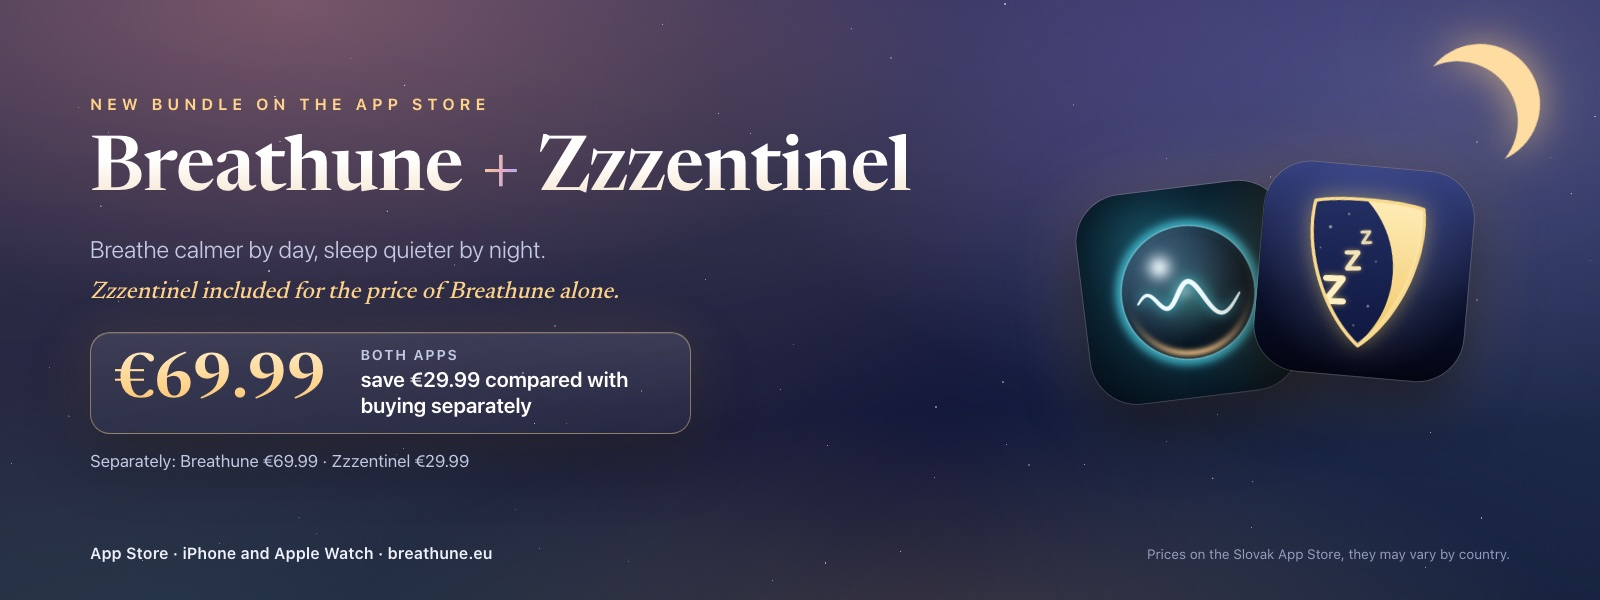
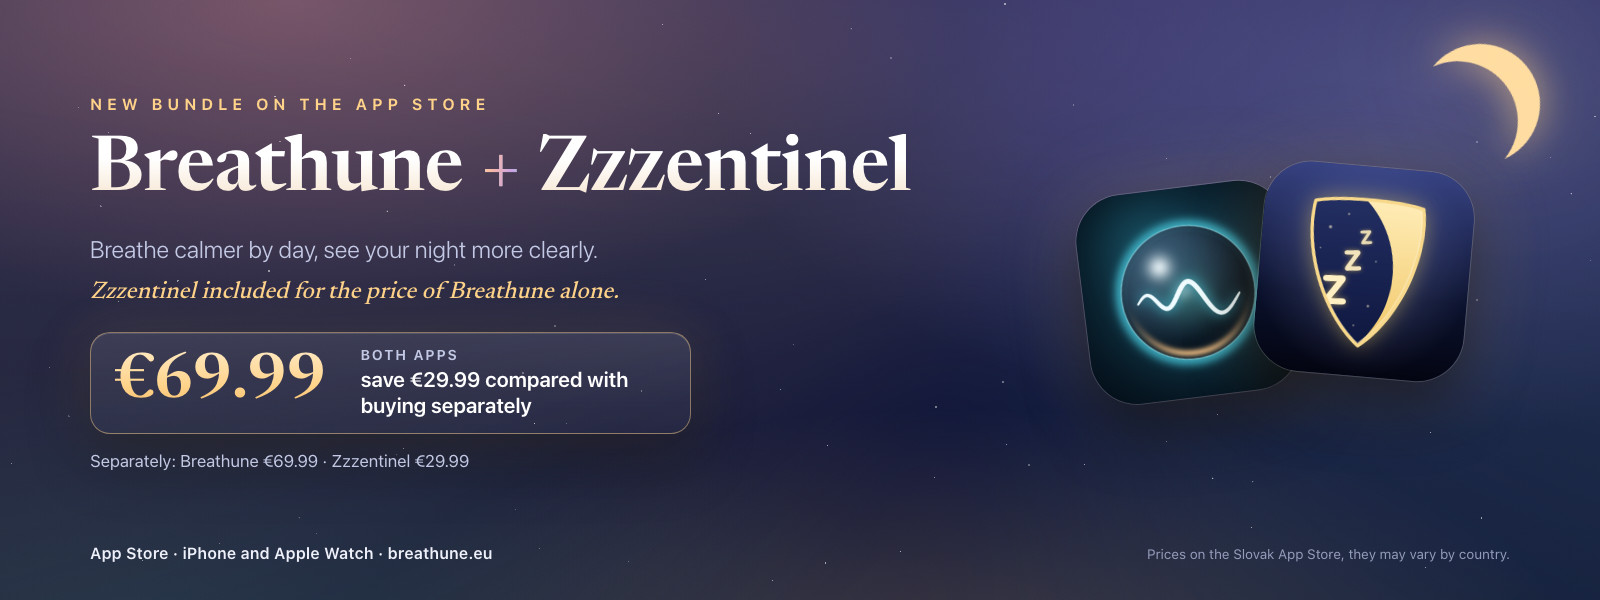
Zosuladenie so Zzzentinel 3.2 a nove bannery

diff --git a/en/index.html b/en/index.html
@@ -647,12 +647,12 @@
           <h3>Zzzentinel</h3>
           <span class="zzz-price"><span data-bf="off"><span class="sk">29,99 €</span><span class="en">€29.99</span></span><span data-bf="on" hidden><span class="sk">24,99 €</span><span class="en">€24.99</span></span></span>
         </div>
-        <p class="sk">Nočný strážca, ktorý rozpozná a zapíše, čo sa počas spánku ozve: chrápanie, reč zo sna, kašeľ. Keď nejaký zvuk nepozná, poctivo to povie. Ráno namiesto hádania vidíš prehľadnú časovú os. Voliteľný režim Guard Extra Plus navyše ustráži telefón pred zvedavými rukami. Bežné zvuky aj tie, ktoré si sám nahráš, spracúva priamo v telefóne a nič neposiela na server.</p>
-        <p class="en">A night watchman that recognizes and logs the sounds of your sleep: snoring, sleep talking, coughing. When it hears something it can't identify, it says so. In the morning you get a clear timeline instead of guesswork. An optional Guard Extra Plus mode also keeps curious hands off your phone. Sounds are processed on the phone and nothing is uploaded to a server.</p>
-        <p class="muted sk">Samostatná platená appka od rovnakého autora. Keď máš obe, noci zo Zzzentinelu uvidíš aj v štatistikách Breathune. Appky si v telefóne vymieňajú len krátke súhrny nocí, nikdy nie zvuk. iPhone a Apple Watch.</p>
-        <p class="muted en">A separate paid app from the same author. If you have both, nights recorded in Zzzentinel also show up in Breathune's statistics. The two apps share only short night summaries on your phone, never audio. iPhone and Apple Watch.</p>
+        <p class="sk">Súkromný záznamník chrápania a nočných zvukov pre iPhone. Priamo v telefóne rozpozná a zapíše zvuky, ktoré zaradí ako chrápanie, reč zo sna alebo kašeľ. Keď nejaký zvuk nepozná, poctivo to povie. Ráno namiesto hádania vidíš prehľadnú časovú os. Voliteľný režim Guard Extra Plus odrádza zvedavé ruky, nie je to však ochrana pred krádežou. Nahrávky a analýzy vznikajú a zostávajú v iPhone a vývojár nedostáva nič. Nie je to zdravotnícka pomôcka.</p>
+        <p class="en">A private snore and sleep sound recorder for iPhone. Right on the phone it recognizes and logs sounds it classifies as snoring, sleep talking or coughing. When it hears something it can't identify, it says so. In the morning you get a clear timeline instead of guesswork. An optional Guard Extra Plus mode also deters curious hands, though it is not theft protection. Recordings and analyses are made and kept on the iPhone, and the developer receives nothing. Not a medical device.</p>
+        <p class="muted sk">Samostatná platená appka od rovnakého autora, jednorazový nákup bez predplatného. Keď máš v iPhone obe, noci zo Zzzentinelu uvidíš aj v štatistikách Breathune. Appky si v telefóne vymieňajú len krátke súhrny nocí, nikdy nie zvuk ani reč. iPhone a Apple Watch (hodinky ovládajú strážcu telefónu).</p>
+        <p class="muted en">A separate paid app from the same author, a one-time purchase with no subscription. If you have both on your iPhone, nights recorded in Zzzentinel also show up in Breathune's statistics. The two apps share only short night summaries on your phone, never audio or speech. iPhone and Apple Watch (the watch controls the phone's guard).</p>
         <p class="center" style="margin-top:14px">
-          <a class="btn" href="https://dzanino.github.io/Zzzentinel/" target="_blank" rel="noopener"><span class="sk">Pozrieť Zzzentinel</span><span class="en">See Zzzentinel</span> ↗</a>
+          <a class="btn" href="https://dzanino.github.io/Zzzentinel/?lang=en" target="_blank" rel="noopener"><span class="sk">Pozrieť Zzzentinel</span><span class="en">See Zzzentinel</span> ↗</a>
         </p>
       </div>
     </section>
@@ -680,8 +680,8 @@
     <section id="bundle">
       <h2 class="sk">Breathune + Zzzentinel v jednom bundli</h2>
       <h2 class="en">Breathune + Zzzentinel in one bundle</h2>
-      <p class="lede sk">Pokojnejšie dýchanie cez deň, tichšia noc. Obe moje appky v jednom balíku v App Store.</p>
-      <p class="lede en">Breathe calmer by day, sleep quieter by night. Both of my apps in one App Store bundle.</p>
+      <p class="lede sk">Pokojnejšie dýchanie cez deň, jasnejší obraz o noci. Obe moje appky v jednom balíku v App Store.</p>
+      <p class="lede en">Breathe calmer by day, see your night more clearly. Both of my apps in one App Store bundle.</p>
 
       <a class="bundle-banner" href="https://apps.apple.com/app-bundle/id6824159791" target="_blank" rel="noopener">
         <picture class="sk" data-bf="off"><source media="(max-width:700px)" srcset="/assets/bundle/bz_bezne_stvorec_sk.jpg"><img src="/assets/bundle/bz_bezne_web_sk.jpg" width="1600" height="600" loading="lazy" alt="Ikony appiek Breathune a Zzzentinel, bundle v App Store za 69,99 €, ušetríš 29,99 € oproti samostatnému nákupu"></picture>
@@ -709,12 +709,12 @@
         <ul class="bundle-list sk">
           <li><b>Breathune:</b> riadené dýchanie podľa Šikutovej metódy, 4-7-8, box, koherentné 5-5 a vlastné programy. Tréning Snore No More môže pomôcť zmierniť chrápanie. Vedenie dychu aj na Apple Watch.</li>
           <li><b>Zzzentinel:</b> počas noci počúva a triedi chrápanie, rozprávanie zo sna a kašeľ. Ráno report s nočnou mapou a epizódami na prehratie. Voliteľne siréna Guard Extra Plus.</li>
-          <li><b>Spolu:</b> noci zo Zzzentinelu uvidíš v štatistikách Breathune. Bez účtu, bez reklám, nič neopúšťa telefón.</li>
+          <li><b>Spolu:</b> noci zo Zzzentinelu uvidíš v štatistikách Breathune. Bez účtu, bez reklám, v telefóne si appky vymieňajú len krátke súhrny, nikdy nie zvuk ani reč.</li>
         </ul>
         <ul class="bundle-list en">
           <li><b>Breathune:</b> guided breathing with the Šikuta method, 4-7-8, box, coherent 5-5 and your own programs. The Snore No More training can help reduce snoring. Breathing guidance on Apple Watch too.</li>
           <li><b>Zzzentinel:</b> listens through the night and sorts snoring, sleep talking and coughing. A morning report with a night map and episodes to play back. Optional Guard Extra Plus siren.</li>
-          <li><b>Together:</b> nights recorded by Zzzentinel appear in the Breathune statistics. No account, no ads, nothing leaves your phone.</li>
+          <li><b>Together:</b> nights recorded by Zzzentinel appear in the Breathune statistics. No account, no ads; on the phone the two apps share only short summaries, never audio or speech.</li>
         </ul>
         <p class="center" style="margin-top:18px"><a class="btn" href="https://apps.apple.com/app-bundle/id6824159791" target="_blank" rel="noopener"><span class="sk">Bundle v App Store</span><span class="en">Bundle on the App Store</span> ↗</a></p>
         <p class="muted sk">Bundle je len v App Store (iPhone a Apple Watch). Ak už jednu z appiek máš, App Store ti pri bundli započíta, čo si už zaplatil(a). Ceny v App Store pre Slovensko, v iných krajinách sa môžu líšiť. Obe appky slúžia na relaxáciu a wellness a nie sú zdravotníckou pomôckou.</p>

diff --git a/index.html b/index.html
@@ -647,10 +647,10 @@
           <h3>Zzzentinel</h3>
           <span class="zzz-price"><span data-bf="off"><span class="sk">29,99 €</span><span class="en">€29.99</span></span><span data-bf="on" hidden><span class="sk">24,99 €</span><span class="en">€24.99</span></span></span>
         </div>
-        <p class="sk">Nočný strážca, ktorý rozpozná a zapíše, čo sa počas spánku ozve: chrápanie, reč zo sna, kašeľ. Keď nejaký zvuk nepozná, poctivo to povie. Ráno namiesto hádania vidíš prehľadnú časovú os. Voliteľný režim Guard Extra Plus navyše ustráži telefón pred zvedavými rukami. Bežné zvuky aj tie, ktoré si sám nahráš, spracúva priamo v telefóne a nič neposiela na server.</p>
-        <p class="en">A night watchman that recognizes and logs the sounds of your sleep: snoring, sleep talking, coughing. When it hears something it can't identify, it says so. In the morning you get a clear timeline instead of guesswork. An optional Guard Extra Plus mode also keeps curious hands off your phone. Sounds are processed on the phone and nothing is uploaded to a server.</p>
-        <p class="muted sk">Samostatná platená appka od rovnakého autora. Keď máš obe, noci zo Zzzentinelu uvidíš aj v štatistikách Breathune. Appky si v telefóne vymieňajú len krátke súhrny nocí, nikdy nie zvuk. iPhone a Apple Watch.</p>
-        <p class="muted en">A separate paid app from the same author. If you have both, nights recorded in Zzzentinel also show up in Breathune's statistics. The two apps share only short night summaries on your phone, never audio. iPhone and Apple Watch.</p>
+        <p class="sk">Súkromný záznamník chrápania a nočných zvukov pre iPhone. Priamo v telefóne rozpozná a zapíše zvuky, ktoré zaradí ako chrápanie, reč zo sna alebo kašeľ. Keď nejaký zvuk nepozná, poctivo to povie. Ráno namiesto hádania vidíš prehľadnú časovú os. Voliteľný režim Guard Extra Plus odrádza zvedavé ruky, nie je to však ochrana pred krádežou. Nahrávky a analýzy vznikajú a zostávajú v iPhone a vývojár nedostáva nič. Nie je to zdravotnícka pomôcka.</p>
+        <p class="en">A private snore and sleep sound recorder for iPhone. Right on the phone it recognizes and logs sounds it classifies as snoring, sleep talking or coughing. When it hears something it can't identify, it says so. In the morning you get a clear timeline instead of guesswork. An optional Guard Extra Plus mode also deters curious hands, though it is not theft protection. Recordings and analyses are made and kept on the iPhone, and the developer receives nothing. Not a medical device.</p>
+        <p class="muted sk">Samostatná platená appka od rovnakého autora, jednorazový nákup bez predplatného. Keď máš v iPhone obe, noci zo Zzzentinelu uvidíš aj v štatistikách Breathune. Appky si v telefóne vymieňajú len krátke súhrny nocí, nikdy nie zvuk ani reč. iPhone a Apple Watch (hodinky ovládajú strážcu telefónu).</p>
+        <p class="muted en">A separate paid app from the same author, a one-time purchase with no subscription. If you have both on your iPhone, nights recorded in Zzzentinel also show up in Breathune's statistics. The two apps share only short night summaries on your phone, never audio or speech. iPhone and Apple Watch (the watch controls the phone's guard).</p>
         <p class="center" style="margin-top:14px">
           <a class="btn" href="https://dzanino.github.io/Zzzentinel/" target="_blank" rel="noopener"><span class="sk">Pozrieť Zzzentinel</span><span class="en">See Zzzentinel</span> ↗</a>
         </p>
@@ -680,8 +680,8 @@
     <section id="bundle">
       <h2 class="sk">Breathune + Zzzentinel v jednom bundli</h2>
       <h2 class="en">Breathune + Zzzentinel in one bundle</h2>
-      <p class="lede sk">Pokojnejšie dýchanie cez deň, tichšia noc. Obe moje appky v jednom balíku v App Store.</p>
-      <p class="lede en">Breathe calmer by day, sleep quieter by night. Both of my apps in one App Store bundle.</p>
+      <p class="lede sk">Pokojnejšie dýchanie cez deň, jasnejší obraz o noci. Obe moje appky v jednom balíku v App Store.</p>
+      <p class="lede en">Breathe calmer by day, see your night more clearly. Both of my apps in one App Store bundle.</p>
 
       <a class="bundle-banner" href="https://apps.apple.com/app-bundle/id6824159791" target="_blank" rel="noopener">
         <picture class="sk" data-bf="off"><source media="(max-width:700px)" srcset="/assets/bundle/bz_bezne_stvorec_sk.jpg"><img src="/assets/bundle/bz_bezne_web_sk.jpg" width="1600" height="600" loading="lazy" alt="Ikony appiek Breathune a Zzzentinel, bundle v App Store za 69,99 €, ušetríš 29,99 € oproti samostatnému nákupu"></picture>
@@ -709,12 +709,12 @@
         <ul class="bundle-list sk">
           <li><b>Breathune:</b> riadené dýchanie podľa Šikutovej metódy, 4-7-8, box, koherentné 5-5 a vlastné programy. Tréning Snore No More môže pomôcť zmierniť chrápanie. Vedenie dychu aj na Apple Watch.</li>
           <li><b>Zzzentinel:</b> počas noci počúva a triedi chrápanie, rozprávanie zo sna a kašeľ. Ráno report s nočnou mapou a epizódami na prehratie. Voliteľne siréna Guard Extra Plus.</li>
-          <li><b>Spolu:</b> noci zo Zzzentinelu uvidíš v štatistikách Breathune. Bez účtu, bez reklám, nič neopúšťa telefón.</li>
+          <li><b>Spolu:</b> noci zo Zzzentinelu uvidíš v štatistikách Breathune. Bez účtu, bez reklám, v telefóne si appky vymieňajú len krátke súhrny, nikdy nie zvuk ani reč.</li>
         </ul>
         <ul class="bundle-list en">
           <li><b>Breathune:</b> guided breathing with the Šikuta method, 4-7-8, box, coherent 5-5 and your own programs. The Snore No More training can help reduce snoring. Breathing guidance on Apple Watch too.</li>
           <li><b>Zzzentinel:</b> listens through the night and sorts snoring, sleep talking and coughing. A morning report with a night map and episodes to play back. Optional Guard Extra Plus siren.</li>
-          <li><b>Together:</b> nights recorded by Zzzentinel appear in the Breathune statistics. No account, no ads, nothing leaves your phone.</li>
+          <li><b>Together:</b> nights recorded by Zzzentinel appear in the Breathune statistics. No account, no ads; on the phone the two apps share only short summaries, never audio or speech.</li>
         </ul>
         <p class="center" style="margin-top:18px"><a class="btn" href="https://apps.apple.com/app-bundle/id6824159791" target="_blank" rel="noopener"><span class="sk">Bundle v App Store</span><span class="en">Bundle on the App Store</span> ↗</a></p>
         <p class="muted sk">Bundle je len v App Store (iPhone a Apple Watch). Ak už jednu z appiek máš, App Store ti pri bundli započíta, čo si už zaplatil(a). Ceny v App Store pre Slovensko, v iných krajinách sa môžu líšiť. Obe appky slúžia na relaxáciu a wellness a nie sú zdravotníckou pomôckou.</p>

diff --git a/privacy-policy/index.html b/privacy-policy/index.html
@@ -243,8 +243,8 @@
 
   <div class="card" id="zzzentinel">
     <h3><span class="sk"><span class="plat ios">iOS</span> Prepojenie so Zzzentinelom</span><span class="en"><span class="plat ios">iOS</span> Link with Zzzentinel</span></h3>
-    <p class="sk">Breathune a Zzzentinel sú aplikácie od rovnakého autora. Keď máš na iPhone obe, vymieňajú si krátke súhrny cez spoločný priečinok v telefóne (App Group), ku ktorému majú prístup <strong>len tieto dve aplikácie</strong>. Breathune tam zapisuje časy, dĺžky a hlasitosť epizód chrápania, skóre noci, priemerný tep (ak ho meriaš) a zoznam dokončených cvičení. Zzzentinel tam zapisuje časy a hlasitosť chrápania a počty ďalších zvukov (napr. reč zo sna, kašeľ). <strong>Žiadny zvuk, žiadne nahrávky ani prepisy</strong> sa nezdieľajú a nič z toho neopustí telefón. Preberanie nocí zo Zzzentinelu vypneš v nastaveniach noci, zmazaním oboch aplikácií zmizne aj spoločný priečinok.</p>
-    <p class="en">Breathune and Zzzentinel are apps by the same author. When you have both on your iPhone, they exchange short summaries through a shared folder on the phone (an App Group) that <strong>only these two apps</strong> can access. Breathune writes snoring episode times, durations and loudness, the night score, the average heart rate (if you measure it) and the list of completed sessions. Zzzentinel writes snoring times and loudness plus counts of other sounds (e.g. sleep talking, coughing). <strong>No audio, recordings or transcripts</strong> are shared, and none of it leaves the phone. You can turn off using nights from Zzzentinel in the night settings; deleting both apps removes the shared folder too.</p>
+    <p class="sk">Breathune a Zzzentinel sú aplikácie od rovnakého autora. Keď máš na iPhone obe, vymieňajú si krátke súhrny cez spoločný priečinok v telefóne (App Group), ku ktorému majú prístup <strong>len tieto dve aplikácie</strong>. Breathune tam zapisuje časy, dĺžky a hlasitosť epizód chrápania, skóre noci, priemerný tep (ak ho meriaš) a zoznam dokončených cvičení. Zzzentinel tam zapisuje začiatok a koniec noci, časy a úrovne chrápania, počty ďalších zvukov (napr. reč zo sna, kašeľ), odhad dychovej frekvencie z mikrofónu a to, akú časť noci bolo dych počuť; hodnoty z Apple Zdravia tam nedáva. Z priečinka číta tvoje večerné cvičenia, skóre noci a tep. <strong>Žiadny zvuk, žiadne nahrávky ani prepisy</strong> sa nezdieľajú a nič z toho neopustí telefón. Preberanie nocí zo Zzzentinelu vypneš v nastaveniach noci. Spoločný priečinok ostane v telefóne, kým je nainštalovaná aspoň jedna z aplikácií; zmazaním oboch zmizne.</p>
+    <p class="en">Breathune and Zzzentinel are apps by the same author. When you have both on your iPhone, they exchange short summaries through a shared folder on the phone (an App Group) that <strong>only these two apps</strong> can access. Breathune writes snoring episode times, durations and loudness, the night score, the average heart rate (if you measure it) and the list of completed sessions. Zzzentinel writes the night's start and end, snoring times and levels, counts of other sounds (e.g. sleep talking, coughing), its microphone-based breathing-rate estimate and how much of the night breathing was audible; it does not pass on Apple Health values. From the folder it reads your evening breathing sessions, the night score and heart rate. <strong>No audio, recordings or transcripts</strong> are shared, and none of it leaves the phone. You can turn off using nights from Zzzentinel in the night settings. The shared folder stays on the phone as long as at least one of the two apps is installed; deleting both removes it.</p>
   </div>
 
   <div class="card">
@@ -284,8 +284,8 @@
 
 <footer>
   <div class="wrap">
-    <p class="sk">Platné od <strong>5. novembra 2026</strong>. <span data-fz>Breathune</span> · Ján Šikuta · <a href="https://orcid.org/0000-0002-4690-0317" rel="me noopener" target="_blank">ORCID</a> · <a href="../">Úvod</a> · <a href="../support/">Podpora</a></p>
-    <p class="en">Effective <strong>5 November 2026</strong>. <span data-fz>Breathune</span> · Ján Šikuta · <a href="https://orcid.org/0000-0002-4690-0317" rel="me noopener" target="_blank">ORCID</a> · <a href="../">Home</a> · <a href="../support/">Support</a></p>
+    <p class="sk">Platné od <strong>6. novembra 2026</strong>. <span data-fz>Breathune</span> · Ján Šikuta · <a href="https://orcid.org/0000-0002-4690-0317" rel="me noopener" target="_blank">ORCID</a> · <a href="../">Úvod</a> · <a href="../support/">Podpora</a></p>
+    <p class="en">Effective <strong>6 November 2026</strong>. <span data-fz>Breathune</span> · Ján Šikuta · <a href="https://orcid.org/0000-0002-4690-0317" rel="me noopener" target="_blank">ORCID</a> · <a href="../">Home</a> · <a href="../support/">Support</a></p>
   </div>
 </footer>
 

diff --git a/fr/privacy-policy/index.html b/fr/privacy-policy/index.html
@@ -204,7 +204,7 @@
 
   <div class="card" id="zzzentinel">
     <h3><span class="plat ios">iOS</span> Lien avec Zzzentinel</h3>
-    <p>Breathune et Zzzentinel sont des apps du même auteur. Quand les deux sont installées sur ton iPhone, elles échangent de courts résumés via un dossier partagé sur le téléphone (un App Group) auquel <strong>seules ces deux apps</strong> ont accès. Breathune y écrit les heures, durées et volumes des épisodes de ronflement, le score de la nuit, la fréquence cardiaque moyenne (si tu la mesures) et la liste des séances terminées. Zzzentinel y écrit les heures et le volume du ronflement ainsi que le nombre d’autres sons (p. ex. paroles dans le sommeil, toux). <strong>Aucun son, aucun enregistrement ni aucune transcription</strong> n’est partagé, et rien de tout cela ne quitte le téléphone. Tu peux désactiver la reprise des nuits de Zzzentinel dans les réglages de la nuit ; supprimer les deux apps supprime aussi le dossier partagé.</p>
+    <p>Breathune et Zzzentinel sont des apps du même auteur. Quand les deux sont installées sur ton iPhone, elles échangent de courts résumés via un dossier partagé sur le téléphone (un App Group) auquel <strong>seules ces deux apps</strong> ont accès. Breathune y écrit les heures, durées et volumes des épisodes de ronflement, le score de la nuit, la fréquence cardiaque moyenne (si tu la mesures) et la liste des séances terminées. Zzzentinel y écrit le début et la fin de la nuit, les heures et les niveaux de ronflement, le nombre d’autres sons (p. ex. paroles dans le sommeil, toux), l’estimation de la fréquence respiratoire par le micro et la part de la nuit où la respiration était audible ; il n’y transmet aucune valeur d’Apple Santé. Il y lit tes séances du soir, le score de la nuit et la fréquence cardiaque. <strong>Aucun son, aucun enregistrement ni aucune transcription</strong> n’est partagé, et rien de tout cela ne quitte le téléphone. Tu peux désactiver la reprise des nuits de Zzzentinel dans les réglages de la nuit. Le dossier partagé reste sur le téléphone tant qu’au moins une des deux apps est installée ; supprimer les deux le supprime.</p>
   </div>
 
   <div class="card">
@@ -234,7 +234,7 @@
 
 <footer>
   <div class="wrap">
-    <p>En vigueur depuis le <strong>5 novembre 2026</strong>. <span data-fz>Breathune</span> · Ján Šikuta · <a href="https://orcid.org/0000-0002-4690-0317" rel="me noopener" target="_blank">ORCID</a> · <a href="/fr/">Accueil</a> · <a href="/fr/support/">Assistance</a></p>
+    <p>En vigueur depuis le <strong>6 novembre 2026</strong>. <span data-fz>Breathune</span> · Ján Šikuta · <a href="https://orcid.org/0000-0002-4690-0317" rel="me noopener" target="_blank">ORCID</a> · <a href="/fr/">Accueil</a> · <a href="/fr/support/">Assistance</a></p>
   </div>
 </footer>
 

diff --git a/de/privacy-policy/index.html b/de/privacy-policy/index.html
@@ -204,7 +204,7 @@
 
   <div class="card" id="zzzentinel">
     <h3><span class="plat ios">iOS</span> Verbindung mit Zzzentinel</h3>
-    <p>Breathune und Zzzentinel sind Apps vom selben Autor. Wenn du beide auf dem iPhone hast, tauschen sie kurze Zusammenfassungen über einen gemeinsamen Ordner auf dem Telefon aus (App Group), auf den <strong>nur diese beiden Apps</strong> zugreifen können. Breathune schreibt dort Zeitpunkte, Dauer und Lautstärke der Schnarchepisoden, den Nacht-Score, den durchschnittlichen Puls (wenn du ihn misst) und die Liste abgeschlossener Übungen. Zzzentinel schreibt dort Zeitpunkte und Lautstärke des Schnarchens sowie die Anzahl anderer Geräusche (z. B. Sprechen im Schlaf, Husten). <strong>Kein Ton, keine Aufnahmen und keine Transkripte</strong> werden geteilt, und nichts davon verlässt das Telefon. Die Übernahme von Nächten aus Zzzentinel schaltest du in den Nachteinstellungen aus; wenn du beide Apps löschst, verschwindet auch der gemeinsame Ordner.</p>
+    <p>Breathune und Zzzentinel sind Apps vom selben Autor. Wenn du beide auf dem iPhone hast, tauschen sie kurze Zusammenfassungen über einen gemeinsamen Ordner auf dem Telefon aus (App Group), auf den <strong>nur diese beiden Apps</strong> zugreifen können. Breathune schreibt dort Zeitpunkte, Dauer und Lautstärke der Schnarchepisoden, den Nacht-Score, den durchschnittlichen Puls (wenn du ihn misst) und die Liste abgeschlossener Übungen. Zzzentinel schreibt dort Beginn und Ende der Nacht, Zeitpunkte und Pegel des Schnarchens, die Anzahl anderer Geräusche (z. B. Sprechen im Schlaf, Husten), die vom Mikrofon geschätzte Atemfrequenz und wie viel der Nacht die Atmung hörbar war; Werte aus Apple Health gibt es nicht weiter. Aus dem Ordner liest es deine abendlichen Übungen, den Nacht-Score und den Puls. <strong>Kein Ton, keine Aufnahmen und keine Transkripte</strong> werden geteilt, und nichts davon verlässt das Telefon. Die Übernahme von Nächten aus Zzzentinel schaltest du in den Nachteinstellungen aus. Der gemeinsame Ordner bleibt auf dem Telefon, solange mindestens eine der Apps installiert ist; wenn du beide löschst, verschwindet er.</p>
   </div>
 
   <div class="card">
@@ -234,7 +234,7 @@
 
 <footer>
   <div class="wrap">
-    <p>Gültig ab <strong>5. November 2026</strong>. <span data-fz>Breathune</span> · Ján Šikuta · <a href="https://orcid.org/0000-0002-4690-0317" rel="me noopener" target="_blank">ORCID</a> · <a href="/de/">Startseite</a> · <a href="/de/support/">Support</a></p>
+    <p>Gültig ab <strong>6. November 2026</strong>. <span data-fz>Breathune</span> · Ján Šikuta · <a href="https://orcid.org/0000-0002-4690-0317" rel="me noopener" target="_blank">ORCID</a> · <a href="/de/">Startseite</a> · <a href="/de/support/">Support</a></p>
   </div>
 </footer>
 

diff --git a/pt/privacy-policy/index.html b/pt/privacy-policy/index.html
@@ -204,7 +204,7 @@
 
   <div class="card" id="zzzentinel">
     <h3><span class="plat ios">iOS</span> Conexão com o Zzzentinel</h3>
-    <p>O Breathune e o Zzzentinel são apps do mesmo autor. Quando você tem os dois no iPhone, eles trocam resumos curtos por meio de uma pasta compartilhada no celular (App Group), à qual <strong>só esses dois apps</strong> têm acesso. O Breathune grava ali os horários, as durações e o volume dos episódios de ronco, a pontuação da noite, a frequência cardíaca média (se você a medir) e a lista de exercícios concluídos. O Zzzentinel grava ali os horários e o volume do ronco e a contagem de outros sons (por exemplo fala durante o sono, tosse). <strong>Nenhum som, gravação ou transcrição</strong> é compartilhado, e nada disso sai do celular. Você pode desativar o uso das noites do Zzzentinel nas configurações da noite; ao apagar os dois apps, a pasta compartilhada também desaparece.</p>
+    <p>O Breathune e o Zzzentinel são apps do mesmo autor. Quando você tem os dois no iPhone, eles trocam resumos curtos por meio de uma pasta compartilhada no celular (App Group), à qual <strong>só esses dois apps</strong> têm acesso. O Breathune grava ali os horários, as durações e o volume dos episódios de ronco, a pontuação da noite, a frequência cardíaca média (se você a medir) e a lista de exercícios concluídos. O Zzzentinel grava ali o início e o fim da noite, os horários e níveis do ronco, a contagem de outros sons (por exemplo fala durante o sono, tosse), a estimativa da frequência respiratória pelo microfone e em quanto da noite a respiração foi audível; ele não repassa valores do Apple Saúde. Da pasta, ele lê as suas sessões da noite, a pontuação da noite e a frequência cardíaca. <strong>Nenhum som, gravação ou transcrição</strong> é compartilhado, e nada disso sai do celular. Você pode desativar o uso das noites do Zzzentinel nas configurações da noite. A pasta compartilhada fica no celular enquanto pelo menos um dos dois apps estiver instalado; ao apagar os dois, ela desaparece.</p>
   </div>
 
   <div class="card">
@@ -234,7 +234,7 @@
 
 <footer>
   <div class="wrap">
-    <p>Em vigor desde <strong>5 de novembro de 2026</strong>. <span data-fz>Breathune</span> · Ján Šikuta · <a href="https://orcid.org/0000-0002-4690-0317" rel="me noopener" target="_blank">ORCID</a> · <a href="/pt/">Início</a> · <a href="/pt/support/">Suporte</a></p>
+    <p>Em vigor desde <strong>6 de novembro de 2026</strong>. <span data-fz>Breathune</span> · Ján Šikuta · <a href="https://orcid.org/0000-0002-4690-0317" rel="me noopener" target="_blank">ORCID</a> · <a href="/pt/">Início</a> · <a href="/pt/support/">Suporte</a></p>
   </div>
 </footer>
 

diff --git a/es/privacy-policy/index.html b/es/privacy-policy/index.html
@@ -204,7 +204,7 @@
 
   <div class="card" id="zzzentinel">
     <h3><span class="plat ios">iOS</span> Conexión con Zzzentinel</h3>
-    <p>Breathune y Zzzentinel son apps del mismo autor. Si tienes las dos en tu iPhone, intercambian breves resúmenes a través de una carpeta compartida en el móvil (un App Group) a la que <strong>solo tienen acceso estas dos apps</strong>. Breathune escribe allí las horas, la duración y el volumen de los episodios de ronquido, la puntuación de la noche, el pulso medio (si lo mides) y la lista de sesiones terminadas. Zzzentinel escribe las horas y el volumen de los ronquidos y el número de otros sonidos (p. ej., hablar en sueños, tos). <strong>No se comparte ningún sonido, grabación ni transcripción</strong>, y nada de ello sale del móvil. Puedes desactivar el uso de las noches de Zzzentinel en los ajustes de la noche; al borrar las dos apps, también desaparece la carpeta compartida.</p>
+    <p>Breathune y Zzzentinel son apps del mismo autor. Si tienes las dos en tu iPhone, intercambian breves resúmenes a través de una carpeta compartida en el móvil (un App Group) a la que <strong>solo tienen acceso estas dos apps</strong>. Breathune escribe allí las horas, la duración y el volumen de los episodios de ronquido, la puntuación de la noche, el pulso medio (si lo mides) y la lista de sesiones terminadas. Zzzentinel escribe allí el inicio y el fin de la noche, las horas y los niveles de los ronquidos, el número de otros sonidos (p. ej., hablar en sueños, tos), la estimación de la frecuencia respiratoria por el micrófono y qué parte de la noche se oyó la respiración; no transmite valores de la app Salud. De la carpeta lee tus sesiones antes de dormir, la puntuación de la noche y el pulso. <strong>No se comparte ningún sonido, grabación ni transcripción</strong>, y nada de ello sale del móvil. Puedes desactivar el uso de las noches de Zzzentinel en los ajustes de la noche. La carpeta compartida sigue en el móvil mientras al menos una de las dos apps esté instalada; al borrar las dos, desaparece.</p>
   </div>
 
   <div class="card">
@@ -234,7 +234,7 @@
 
 <footer>
   <div class="wrap">
-    <p>En vigor desde el <strong>5 de noviembre de 2026</strong>. <span data-fz>Breathune</span> · Ján Šikuta · <a href="https://orcid.org/0000-0002-4690-0317" rel="me noopener" target="_blank">ORCID</a> · <a href="/es/">Inicio</a> · <a href="/es/support/">Ayuda</a></p>
+    <p>En vigor desde el <strong>6 de noviembre de 2026</strong>. <span data-fz>Breathune</span> · Ján Šikuta · <a href="https://orcid.org/0000-0002-4690-0317" rel="me noopener" target="_blank">ORCID</a> · <a href="/es/">Inicio</a> · <a href="/es/support/">Ayuda</a></p>
   </div>
 </footer>
 

diff --git a/it/privacy-policy/index.html b/it/privacy-policy/index.html
@@ -204,7 +204,7 @@
 
   <div class="card" id="zzzentinel">
     <h3><span class="plat ios">iOS</span> Collegamento con Zzzentinel</h3>
-    <p>Breathune e Zzzentinel sono app dello stesso autore. Se le hai entrambe sull’iPhone, si scambiano brevi riepiloghi tramite una cartella condivisa sul telefono (App Group) a cui hanno accesso <strong>solo queste due app</strong>. Breathune vi scrive orari, durata e volume degli episodi di russamento, il punteggio della notte, il battito medio (se lo misuri) e l’elenco degli esercizi completati. Zzzentinel vi scrive orari e volume del russamento e il numero di altri suoni (ad es. parole nel sonno, tosse). <strong>Nessun audio, nessuna registrazione né trascrizione</strong> viene condivisa, e nulla di tutto ciò lascia il telefono. Puoi disattivare l’importazione delle notti da Zzzentinel nelle impostazioni della notte; disinstallando entrambe le app sparisce anche la cartella condivisa.</p>
+    <p>Breathune e Zzzentinel sono app dello stesso autore. Se le hai entrambe sull’iPhone, si scambiano brevi riepiloghi tramite una cartella condivisa sul telefono (App Group) a cui hanno accesso <strong>solo queste due app</strong>. Breathune vi scrive orari, durata e volume degli episodi di russamento, il punteggio della notte, il battito medio (se lo misuri) e l’elenco degli esercizi completati. Zzzentinel vi scrive inizio e fine della notte, orari e livelli del russamento, il numero di altri suoni (ad es. parole nel sonno, tosse), la stima della frequenza respiratoria dal microfono e per quanta parte della notte il respiro era udibile; non vi trasmette valori da Apple Salute. Dalla cartella legge i tuoi esercizi serali, il punteggio della notte e il battito. <strong>Nessun audio, nessuna registrazione né trascrizione</strong> viene condivisa, e nulla di tutto ciò lascia il telefono. Puoi disattivare l’importazione delle notti da Zzzentinel nelle impostazioni della notte. La cartella condivisa resta sul telefono finché almeno una delle due app è installata; disinstallando entrambe sparisce.</p>
   </div>
 
   <div class="card">
@@ -234,7 +234,7 @@
 
 <footer>
   <div class="wrap">
-    <p>In vigore dal <strong>5 novembre 2026</strong>. <span data-fz>Breathune</span> · Ján Šikuta · <a href="https://orcid.org/0000-0002-4690-0317" rel="me noopener" target="_blank">ORCID</a> · <a href="/it/">Home</a> · <a href="/it/support/">Assistenza</a></p>
+    <p>In vigore dal <strong>6 novembre 2026</strong>. <span data-fz>Breathune</span> · Ján Šikuta · <a href="https://orcid.org/0000-0002-4690-0317" rel="me noopener" target="_blank">ORCID</a> · <a href="/it/">Home</a> · <a href="/it/support/">Assistenza</a></p>
   </div>
 </footer>
 

diff --git a/pl/privacy-policy/index.html b/pl/privacy-policy/index.html
@@ -204,7 +204,7 @@
 
   <div class="card" id="zzzentinel">
     <h3><span class="plat ios">iOS</span> Połączenie z Zzzentinelem</h3>
-    <p>Breathune i Zzzentinel to aplikacje tego samego autora. Gdy masz na iPhonie obie, wymieniają się krótkimi podsumowaniami przez wspólny folder w telefonie (App Group), do którego dostęp mają <strong>tylko te dwie aplikacje</strong>. Breathune zapisuje tam czasy, długości i głośność epizodów chrapania, wynik nocy, średnie tętno (jeśli je mierzysz) i listę ukończonych ćwiczeń. Zzzentinel zapisuje tam czasy i głośność chrapania oraz liczbę innych dźwięków (np. mówienie przez sen, kaszel). <strong>Żaden dźwięk, żadne nagrania ani transkrypcje</strong> nie są udostępniane i nic z tego nie opuszcza telefonu. Pobieranie nocy z Zzzentinela wyłączysz w ustawieniach nocy; po usunięciu obu aplikacji znika też wspólny folder.</p>
+    <p>Breathune i Zzzentinel to aplikacje tego samego autora. Gdy masz na iPhonie obie, wymieniają się krótkimi podsumowaniami przez wspólny folder w telefonie (App Group), do którego dostęp mają <strong>tylko te dwie aplikacje</strong>. Breathune zapisuje tam czasy, długości i głośność epizodów chrapania, wynik nocy, średnie tętno (jeśli je mierzysz) i listę ukończonych ćwiczeń. Zzzentinel zapisuje tam początek i koniec nocy, czasy i poziomy chrapania, liczbę innych dźwięków (np. mówienie przez sen, kaszel), szacunek częstości oddechu z mikrofonu oraz to, przez jaką część nocy oddech był słyszalny; nie przekazuje wartości z Apple Zdrowie. Z folderu odczytuje twoje wieczorne ćwiczenia, wynik nocy i tętno. <strong>Żaden dźwięk, żadne nagrania ani transkrypcje</strong> nie są udostępniane i nic z tego nie opuszcza telefonu. Pobieranie nocy z Zzzentinela wyłączysz w ustawieniach nocy. Wspólny folder zostaje na telefonie, dopóki zainstalowana jest co najmniej jedna z aplikacji; po usunięciu obu znika.</p>
   </div>
 
   <div class="card">
@@ -234,7 +234,7 @@
 
 <footer>
   <div class="wrap">
-    <p>Obowiązuje od <strong>5 listopada 2026</strong>. <span data-fz>Breathune</span> · Ján Šikuta · <a href="https://orcid.org/0000-0002-4690-0317" rel="me noopener" target="_blank">ORCID</a> · <a href="/pl/">Strona główna</a> · <a href="/pl/support/">Pomoc</a></p>
+    <p>Obowiązuje od <strong>6 listopada 2026</strong>. <span data-fz>Breathune</span> · Ján Šikuta · <a href="https://orcid.org/0000-0002-4690-0317" rel="me noopener" target="_blank">ORCID</a> · <a href="/pl/">Strona główna</a> · <a href="/pl/support/">Pomoc</a></p>
   </div>
 </footer>
 

diff --git a/cs/privacy-policy/index.html b/cs/privacy-policy/index.html
@@ -204,7 +204,7 @@
 
   <div class="card" id="zzzentinel">
     <h3><span class="plat ios">iOS</span> Propojení se Zzzentinelem</h3>
-    <p>Breathune a Zzzentinel jsou aplikace od stejného autora. Když máš na iPhonu obě, vyměňují si krátké souhrny přes společnou složku v telefonu (App Group), ke které mají přístup <strong>jen tyto dvě aplikace</strong>. Breathune tam zapisuje časy, délky a hlasitost epizod chrápání, skóre noci, průměrný tep (pokud ho měříš) a seznam dokončených cvičení. Zzzentinel tam zapisuje časy a hlasitost chrápání a počty dalších zvuků (např. mluvení ze spánku, kašel). <strong>Žádný zvuk, žádné nahrávky ani přepisy</strong> se nesdílejí a nic z toho neopustí telefon. Přebírání nocí ze Zzzentinelu vypneš v nastavení noci, smazáním obou aplikací zmizí i společná složka.</p>
+    <p>Breathune a Zzzentinel jsou aplikace od stejného autora. Když máš na iPhonu obě, vyměňují si krátké souhrny přes společnou složku v telefonu (App Group), ke které mají přístup <strong>jen tyto dvě aplikace</strong>. Breathune tam zapisuje časy, délky a hlasitost epizod chrápání, skóre noci, průměrný tep (pokud ho měříš) a seznam dokončených cvičení. Zzzentinel tam zapisuje začátek a konec noci, časy a úrovně chrápání, počty dalších zvuků (např. mluvení ze spánku, kašel), odhad dechové frekvence z mikrofonu a to, jakou část noci byl dech slyšet; hodnoty z Apple Zdraví tam nedává. Ze složky čte tvá večerní cvičení, skóre noci a tep. <strong>Žádný zvuk, žádné nahrávky ani přepisy</strong> se nesdílejí a nic z toho neopustí telefon. Přebírání nocí ze Zzzentinelu vypneš v nastavení noci. Společná složka zůstane v telefonu, dokud je nainstalovaná aspoň jedna z aplikací; smazáním obou zmizí.</p>
   </div>
 
   <div class="card">
@@ -234,7 +234,7 @@
 
 <footer>
   <div class="wrap">
-    <p>Platné od <strong>5. listopadu 2026</strong>. <span data-fz>Breathune</span> · Ján Šikuta · <a href="https://orcid.org/0000-0002-4690-0317" rel="me noopener" target="_blank">ORCID</a> · <a href="/cs/">Úvod</a> · <a href="/cs/support/">Podpora</a></p>
+    <p>Platné od <strong>6. listopadu 2026</strong>. <span data-fz>Breathune</span> · Ján Šikuta · <a href="https://orcid.org/0000-0002-4690-0317" rel="me noopener" target="_blank">ORCID</a> · <a href="/cs/">Úvod</a> · <a href="/cs/support/">Podpora</a></p>
   </div>
 </footer>
 

diff --git a/fr/index.html b/fr/index.html
@@ -590,10 +590,10 @@
           <h3>Zzzentinel</h3>
           <span class="zzz-price"><span data-bf="off">29,99 €</span><span data-bf="on" hidden>24,99 €</span></span>
         </div>
-        <p>Un veilleur de nuit qui reconnaît et note les bruits de ton sommeil : ronflement, paroles, toux. Quand il ne sait pas identifier un son, il le dit franchement. Le matin, tu as une chronologie claire au lieu de devoir deviner. Le mode optionnel Guard Extra Plus protège en plus le téléphone lui-même des mains curieuses. Les sons courants comme ceux que tu as enregistrés toi-même sont traités directement sur le téléphone, rien n’est envoyé vers un serveur.</p>
-        <p class="muted">Une app payante distincte, du même auteur. Si tu as les deux, les nuits enregistrées dans Zzzentinel apparaissent aussi dans les statistiques de Breathune. Les deux apps n’échangent sur ton téléphone que de courts résumés des nuits, jamais de son. iPhone et Apple Watch.</p>
+        <p>Un enregistreur privé de ronflements et de sons nocturnes pour iPhone. Directement sur le téléphone, il reconnaît et note les sons qu’il classe comme ronflements, paroles dans le sommeil ou toux. Quand il ne connaît pas un son, il le dit honnêtement. Le matin, au lieu de deviner, tu vois une chronologie claire. Le mode facultatif Guard Extra Plus dissuade les mains curieuses, mais ce n’est pas une protection contre le vol. Les enregistrements et les analyses sont réalisés et conservés sur l’iPhone, et le développeur ne reçoit rien. Ce n’est pas un dispositif médical.</p>
+        <p class="muted">Une app payante distincte, du même auteur, en achat unique sans abonnement. Si tu as les deux sur ton iPhone, les nuits enregistrées dans Zzzentinel apparaissent aussi dans les statistiques de Breathune. Les deux apps n’échangent sur ton téléphone que de courts résumés des nuits, jamais de son ni de paroles. iPhone et Apple Watch (la montre commande la garde du téléphone).</p>
         <p class="center" style="margin-top:14px">
-          <a class="btn" href="https://dzanino.github.io/Zzzentinel/" target="_blank" rel="noopener">Découvrir Zzzentinel ↗</a>
+          <a class="btn" href="https://dzanino.github.io/Zzzentinel/fr/" target="_blank" rel="noopener">Découvrir Zzzentinel ↗</a>
         </p>
       </div>
     </section>

diff --git a/it/index.html b/it/index.html
@@ -589,10 +589,10 @@
           <h3>Zzzentinel</h3>
           <span class="zzz-price"><span data-bf="off">29,99 €</span><span data-bf="on" hidden>24,99 €</span></span>
         </div>
-        <p>Una sentinella notturna che riconosce e annota i rumori del sonno: russamento, parole nel sonno, tosse. Quando un suono non lo conosce, lo dice onestamente. Al mattino trovi una linea temporale chiara invece di tirare a indovinare. La modalità opzionale Guard Extra Plus protegge inoltre il telefono dalle mani curiose. Elabora i suoni comuni e quelli registrati da te direttamente sul telefono, senza caricare nulla su un server.</p>
-        <p class="muted">Un’app a pagamento separata dello stesso autore. Se le hai entrambe, le notti registrate in Zzzentinel compaiono anche nelle statistiche di Breathune. Le due app si scambiano sul telefono solo brevi riepiloghi delle notti, mai l’audio. iPhone e Apple Watch.</p>
+        <p>Un registratore privato di russamento e suoni notturni per iPhone. Direttamente sul telefono riconosce e annota i suoni che classifica come russamento, parole nel sonno o tosse. Quando non conosce un suono, lo dice onestamente. Al mattino, invece di tirare a indovinare, vedi una linea del tempo chiara. La modalità facoltativa Guard Extra Plus scoraggia le mani curiose, ma non è una protezione antifurto. Registrazioni e analisi vengono create e restano sull’iPhone e lo sviluppatore non riceve nulla. Non è un dispositivo medico.</p>
+        <p class="muted">Un’app a pagamento separata dello stesso autore, acquisto unico senza abbonamento. Se le hai entrambe sull’iPhone, le notti registrate in Zzzentinel compaiono anche nelle statistiche di Breathune. Le due app si scambiano sul telefono solo brevi riepiloghi delle notti, mai audio né parlato. iPhone e Apple Watch (l’orologio controlla la guardia del telefono).</p>
         <p class="center" style="margin-top:14px">
-          <a class="btn" href="https://dzanino.github.io/Zzzentinel/" target="_blank" rel="noopener">Scopri Zzzentinel ↗</a>
+          <a class="btn" href="https://dzanino.github.io/Zzzentinel/it/" target="_blank" rel="noopener">Scopri Zzzentinel ↗</a>
         </p>
       </div>
     </section>
